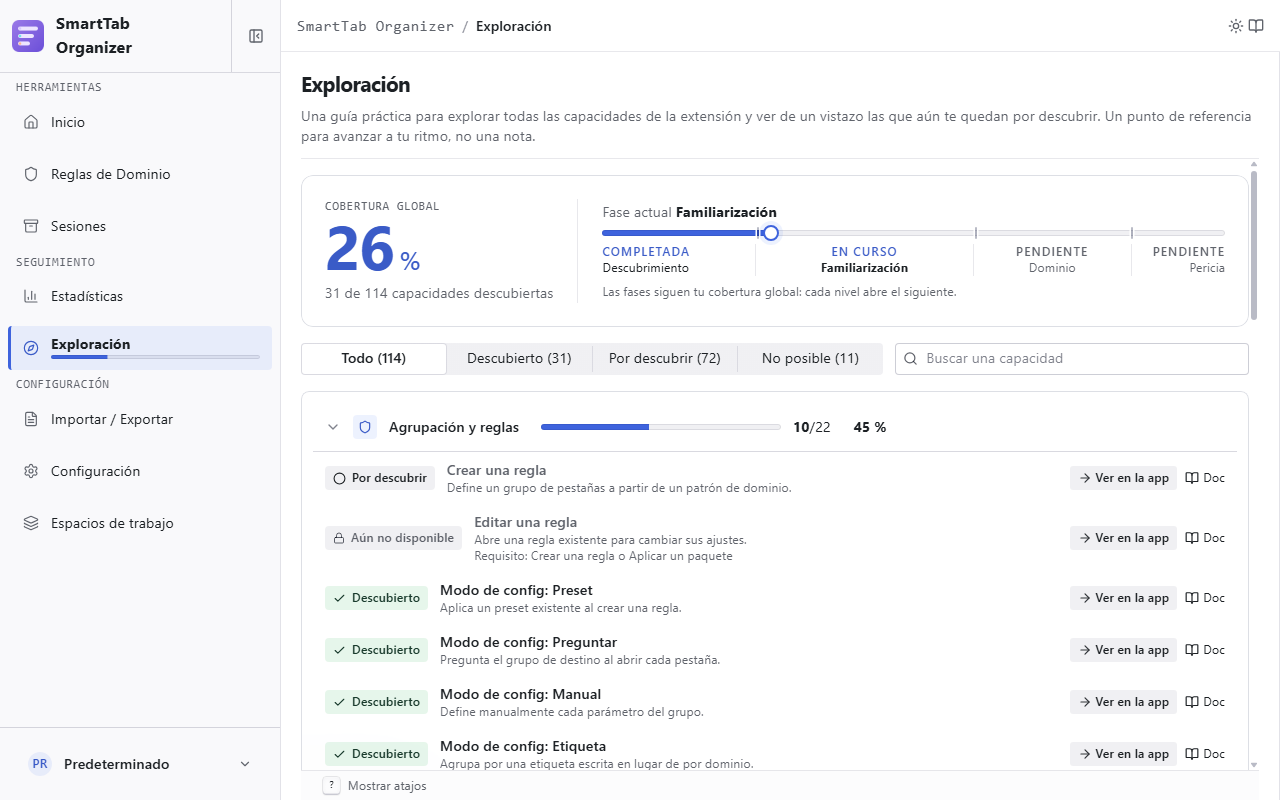
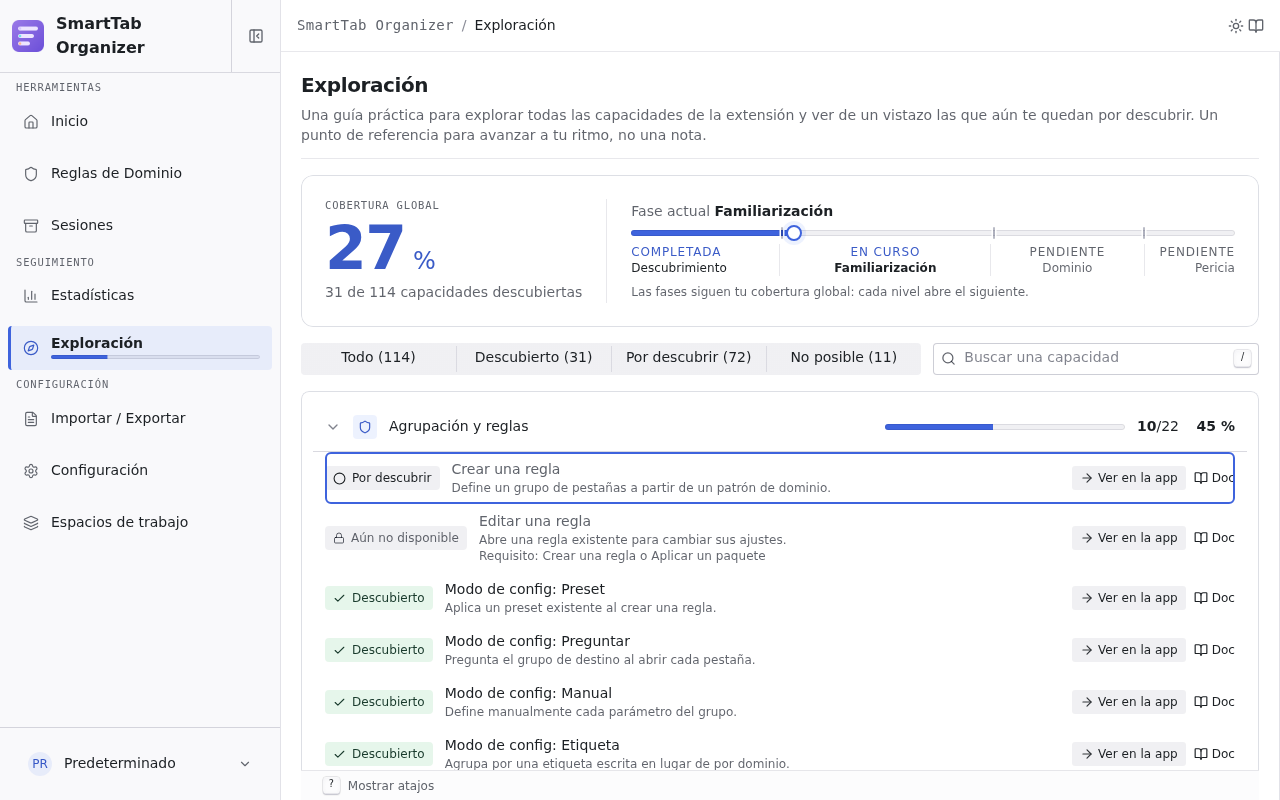
Redesign Exploration capacity-group header layout
Right-align the progress bar, ratio and percentage cluster on each domain
header row, and move the "Terminé" badge to sit right after the title when
the domain is fully discovered.

- ExplorationDomainGroup.tsx: reorder header children (badge after title)
- Exploration.module.css: fixed-basis .domainBar pushed right via margin-left:auto
- Add a Complete (100%) Storybook story
- Regenerate exploration-overview doc screenshots (3 locales x 2 themes)

diff --git a/src/components/Core/Exploration/ExplorationDomainGroup.tsx b/src/components/Core/Exploration/ExplorationDomainGroup.tsx
@@ -88,6 +88,12 @@ export function ExplorationDomainGroup({
       <Text size="2" weight="medium" style={{ minWidth: 140, lineHeight: 1 }}>
         {name}
       </Text>
+      {percent === 100 && (
+        <Badge color="green" variant="soft" highContrast size="1">
+          <Check size={12} aria-hidden="true" />
+          {getMessage('explorationDomainComplete')}
+        </Badge>
+      )}
       <Box className={styles.domainBar}>
         <Progress value={percent} size="2" aria-hidden="true" />
       </Box>
@@ -97,12 +103,6 @@ export function ExplorationDomainGroup({
       <Text size="2" weight="bold" highContrast className={styles.numeric} style={{ minWidth: 44, textAlign: 'right', lineHeight: 1 }}>
         {percent} %
       </Text>
-      {percent === 100 && (
-        <Badge color="green" variant="soft" highContrast size="1" ml="2">
-          <Check size={12} aria-hidden="true" />
-          {getMessage('explorationDomainComplete')}
-        </Badge>
-      )}
     </Flex>
   );
 

diff --git a/src/components/Core/Exploration/ExplorationDomainGroup.stories.tsx b/src/components/Core/Exploration/ExplorationDomainGroup.stories.tsx
@@ -46,3 +46,14 @@ export const ExplorationDomainGroupCollapsed: Story = {
 export const ExplorationDomainGroupForcedOpen: Story = {
   args: { ...baseArgs, open: false, forceOpen: true },
 };
+
+export const ExplorationDomainGroupComplete: Story = {
+  args: {
+    ...baseArgs,
+    discovered: groupingEntries.length,
+    total: groupingEntries.length,
+    percent: 100,
+    open: false,
+    forceOpen: false,
+  },
+};

diff --git a/src/components/Core/Exploration/Exploration.module.css b/src/components/Core/Exploration/Exploration.module.css
@@ -99,9 +99,9 @@
 }
 
 .domainBar {
-  flex: 1;
+  flex: 0 1 240px;
   min-width: 60px;
-  max-width: 240px;
+  margin-left: auto;
   display: flex;
   align-items: center;
   align-self: stretch;
